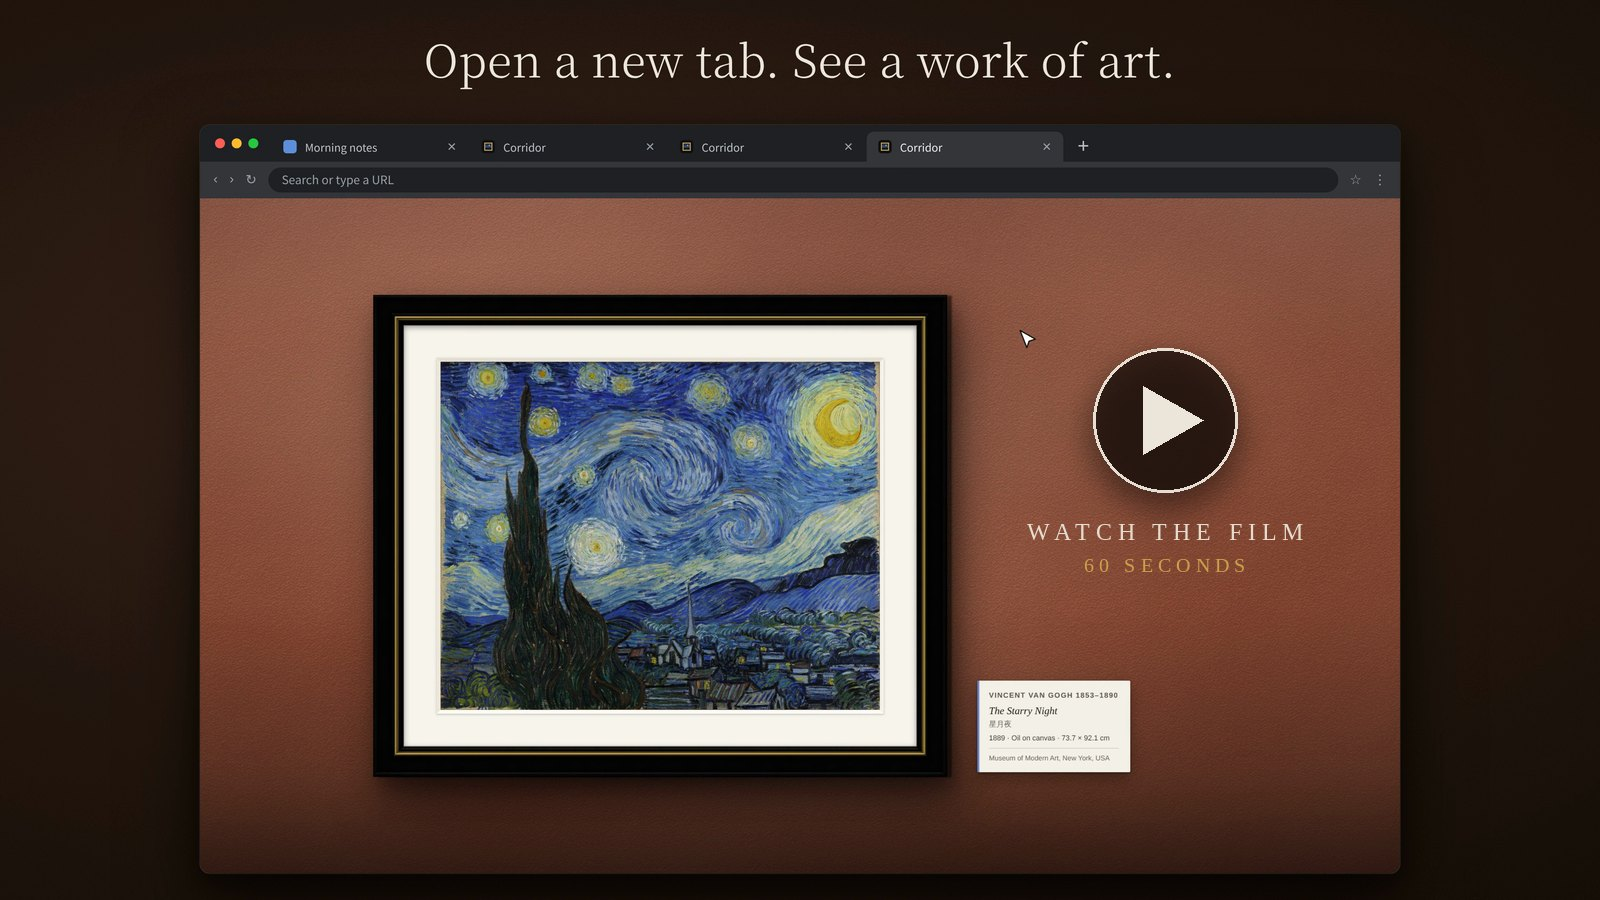
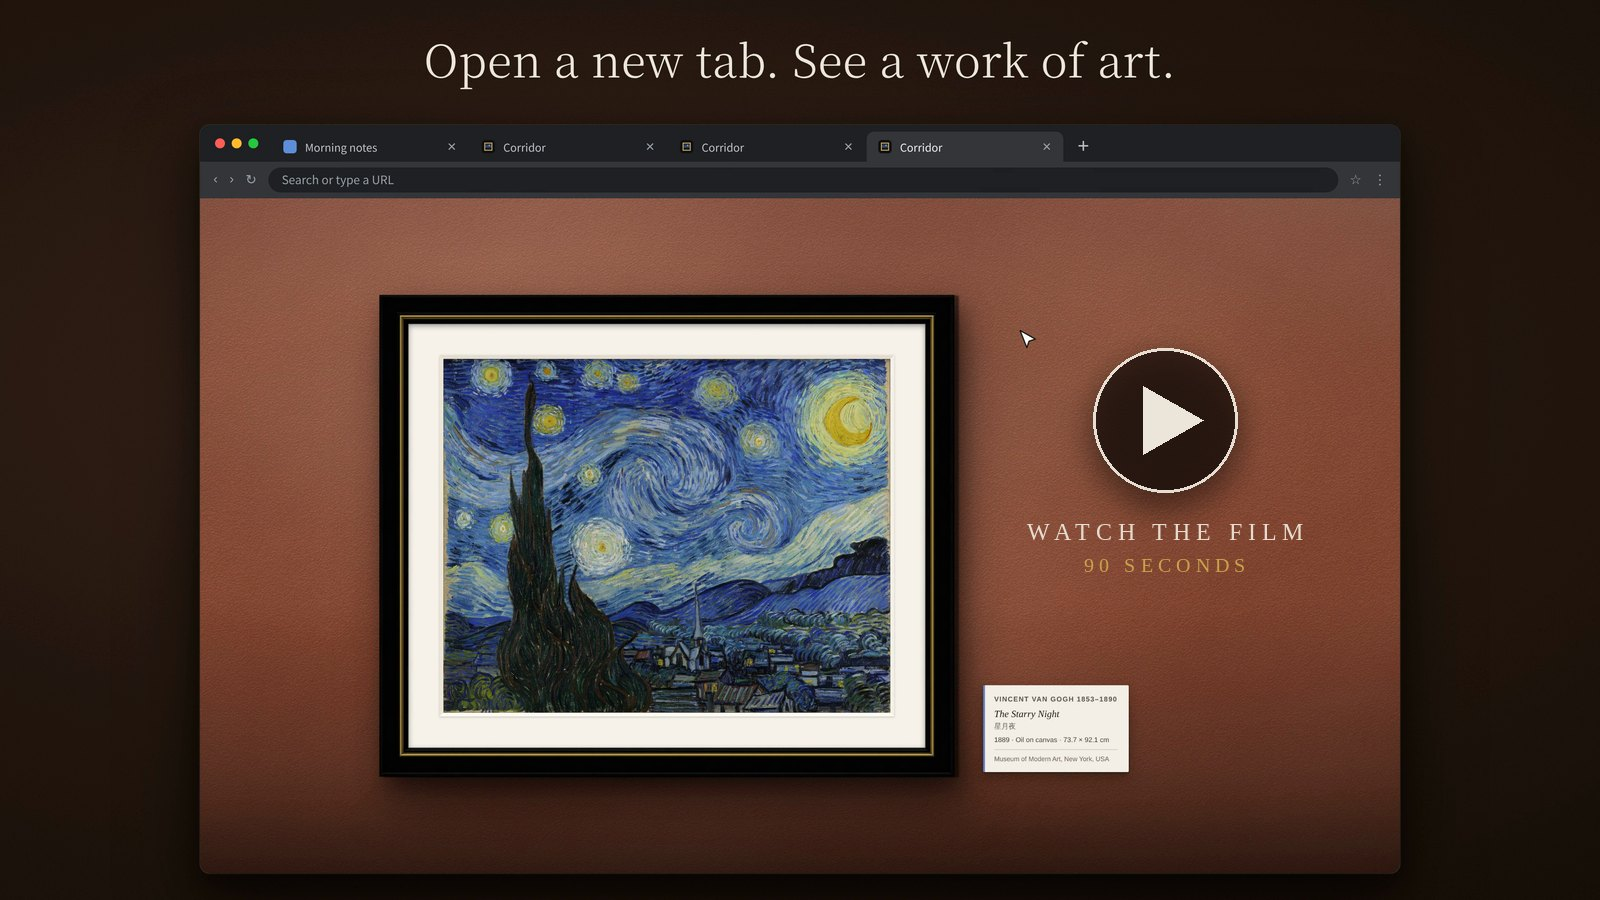
Site: the 90-second film, played inline on the page

Changed region(s): [[0.2188, 0.3422, 0.7188, 0.8711]]

diff --git a/index.html b/index.html
@@ -380,17 +380,17 @@ footer .sig{font-family:var(--serif);letter-spacing:.1em;color:var(--ink-dim)}
   <div class="wrap">
     <div class="sec-head center">
       <p class="kicker"><span class="i18n-zh">一分钟看懂</span><span class="i18n-en">See it in motion</span></p>
-      <h2><span class="i18n-zh">六十秒，走一遍长廊</span><span class="i18n-en">Sixty seconds in the Corridor</span></h2>
+      <h2><span class="i18n-zh">九十秒，走一遍长廊</span><span class="i18n-en">Ninety seconds in the Corridor</span></h2>
     </div>
     <div class="video" id="video">
-      <button class="vplay" type="button" data-yt="QJ4zLwx7_eY" aria-label="Play the 60-second film / 播放 60 秒短片">
+      <button class="vplay" type="button" data-yt="5JPgNeUHIpg" aria-label="Play the 90-second film / 播放 90 秒短片">
         <img loading="lazy" src="media/video-poster.jpg" width="1600" height="900"
              alt="A browser opens a new tab and Corridor shows The Starry Night on a terracotta wall">
       </button>
     </div>
     <p class="vnote">
-      <span class="i18n-zh">点播放后才从 YouTube（youtube-nocookie.com）加载，之前这一页不连 YouTube。也可以<a href="https://youtu.be/QJ4zLwx7_eY">在 YouTube 上看</a>。</span>
-      <span class="i18n-en">The film loads from YouTube (youtube-nocookie.com) only when you press play; until then this page makes no request to YouTube. Or <a href="https://youtu.be/QJ4zLwx7_eY">watch it on YouTube</a>.</span>
+      <span class="i18n-zh">就在这一页里播放。点播放之后才从 YouTube（youtube-nocookie.com）加载，之前这一页不连 YouTube。</span>
+      <span class="i18n-en">It plays right here on the page. The player loads from YouTube (youtube-nocookie.com) only when you press play; until then this page makes no request to YouTube.</span>
     </p>
   </div>
 </section>
@@ -681,7 +681,7 @@ footer .sig{font-family:var(--serif);letter-spacing:.1em;color:var(--ink-dim)}
     b.addEventListener('click',function(){
       var f=document.createElement('iframe');
       f.src='https://www.youtube-nocookie.com/embed/'+b.getAttribute('data-yt')+'?autoplay=1&rel=0&modestbranding=1&playsinline=1';
-      f.title='Corridor · Art New Tab — 60-second film';
+      f.title='Corridor · Art New Tab — 90-second film';
       f.allow='autoplay; encrypted-media; picture-in-picture; fullscreen';
       f.allowFullscreen=true; f.referrerPolicy='strict-origin-when-cross-origin';
       b.parentNode.replaceChild(f,b);
